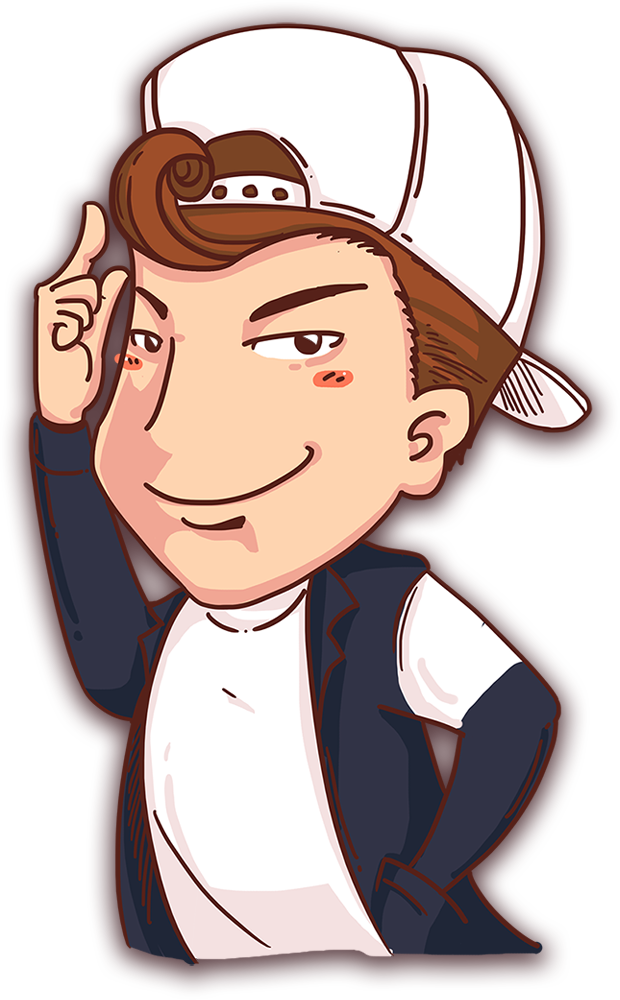
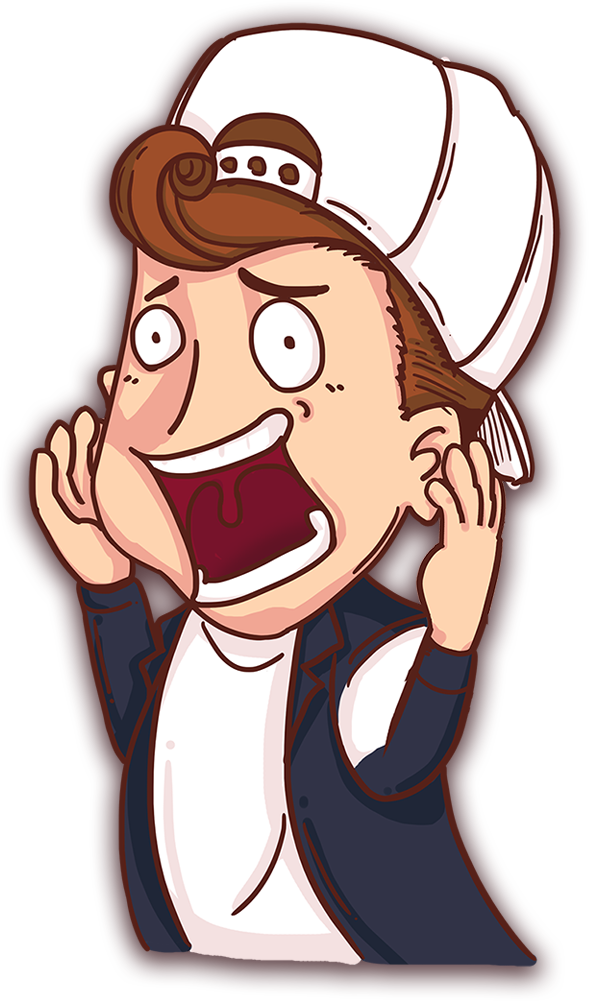
888

diff --git a/scream/sass/style.scss b/scream/sass/style.scss
@@ -362,7 +362,6 @@ body {
                         background: transparent;
                         width: rem(30);
                         height: rem(410);
-                        // border-radius: rem(15);
                         border-bottom-right-radius: rem(15);
                         border-bottom-left-radius: rem(15);
                         position: absolute;
@@ -376,6 +375,27 @@ body {
                             bottom: rem(-410);
                             border-bottom-right-radius: rem(15);
                             border-bottom-left-radius: rem(15);
+                        }
+                    }
+                }
+                .person {
+                    width: 100%;
+                    height: 100%;
+                    img {
+                        &:nth-child(1) {
+                            display: block;
+                            width: rem(600);
+                            position: absolute;
+                            top: 10%;
+                            left: 13%;
+                        }
+                        &.mask {
+                            width: 100%;
+                            height: 100%;
+                            position: fixed;
+                            top: 0;
+                            left: 0;
+                            display: none;
                         }
                     }
                 }

diff --git a/scream/stylesheets/style.css b/scream/stylesheets/style.css
@@ -401,7 +401,7 @@ body .container .status#status3 .score .score-num {
   left: 39%;
   overflow: hidden;
 }
-/* line 372, ../sass/style.scss */
+/* line 371, ../sass/style.scss */
 body .container .status#status3 .score .score-num img {
   display: block;
   position: relative;
@@ -410,7 +410,29 @@ body .container .status#status3 .score .score-num img {
   border-bottom-right-radius: 0.32rem;
   border-bottom-left-radius: 0.32rem;
 }
+/* line 381, ../sass/style.scss */
+body .container .status#status3 .person {
+  width: 100%;
+  height: 100%;
+}
 /* line 385, ../sass/style.scss */
+body .container .status#status3 .person img:nth-child(1) {
+  display: block;
+  width: 12.8rem;
+  position: absolute;
+  top: 10%;
+  left: 13%;
+}
+/* line 392, ../sass/style.scss */
+body .container .status#status3 .person img.mask {
+  width: 100%;
+  height: 100%;
+  position: fixed;
+  top: 0;
+  left: 0;
+  display: none;
+}
+/* line 405, ../sass/style.scss */
 body .btn {
   width: 7.38133rem;
   height: 5.41867rem;
@@ -418,7 +440,7 @@ body .btn {
   background-size: 7.38133rem 5.41867rem;
   margin: 2.13333rem auto;
 }
-/* line 391, ../sass/style.scss */
+/* line 411, ../sass/style.scss */
 body .btn.off {
   height: 5.41867rem;
   background: url(../img/status3/btn-off.png) no-repeat;

diff --git a/scream/index.html b/scream/index.html
@@ -66,6 +66,10 @@
                     <img src="img/status3/33.png" alt="">
                 </div>
             </div>
+            <div class="person">
+                <img src="img/status3/boy/1.png" alt="" name="person">
+                <img src="img/status3/boy/5.png" alt="" class="mask">
+            </div>
         </div>
         <div class="status" id="status4">
 

diff --git a/scream/js/game.js b/scream/js/game.js
@@ -102,6 +102,7 @@ define(function (require) {
 						$(".count2").attr('src', "img/number/" + a + ".png");
 					}
 					$(".score-num img").css('bottom', -(a * 41 / 46.875) + 'rem');
+					$(".person img[name=person]").attr('src', 'img/status3/boy/' + (a % 4) + '.png')
 					if (a == 0) {
 						clearInterval(timer);
 						$(".count1").attr('src', "img/number/0.png");
